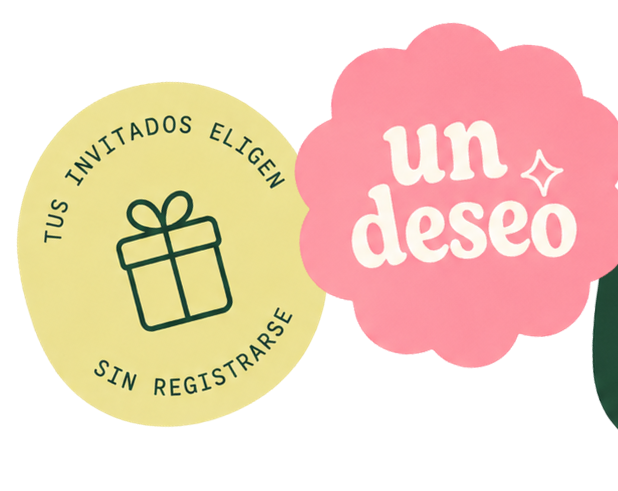
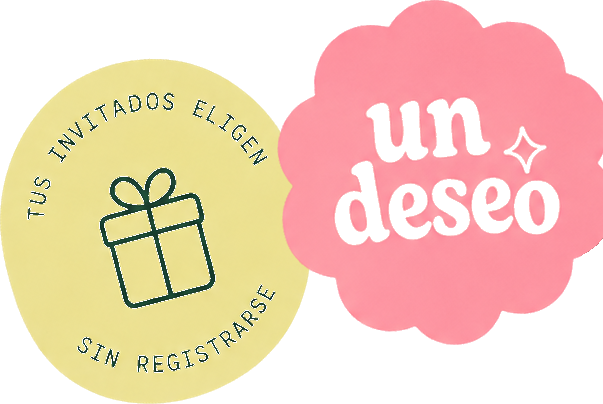
Usar el sticker original de "armá tu lista" y prolijar el recorte
El recorte anterior de invitados/un-deseo dejaba bordes de color de
los stickers vecinos colándose (corte a lo bruto). Se rehace con
una máscara por color en vez de un recorte rectangular, así queda
limpio. El tercer sticker deja de reconstruirse en código (con una
fuente distinta a la pedida) y pasa a ser el archivo real que se
subió, recortado a su forma real sin tocar diseño ni tipografía.

diff --git a/src/app/layout.tsx b/src/app/layout.tsx
@@ -1,5 +1,5 @@
 import type { Metadata } from "next";
-import { Fraunces, Jost, IBM_Plex_Mono, Caveat } from "next/font/google";
+import { Fraunces, Jost, IBM_Plex_Mono } from "next/font/google";
 import { Analytics } from "@vercel/analytics/next";
 import { PostHogProvider } from "@/components/PostHogProvider";
 import "./globals.css";
@@ -20,13 +20,6 @@ const ibmPlexMono = IBM_Plex_Mono({
   variable: "--font-ibm-plex-mono",
   subsets: ["latin"],
   weight: ["500", "600"],
-});
-
-// Provisorio: reemplazar por la fuente "Machiato" cuando se confirme la licencia comercial.
-const caveat = Caveat({
-  variable: "--font-caveat",
-  subsets: ["latin"],
-  weight: ["700"],
 });
 
 export const metadata: Metadata = {
@@ -54,7 +47,7 @@ export default function RootLayout({ children }: LayoutProps<"/">) {
   return (
     <html
       lang="es"
-      className={`${fraunces.variable} ${jost.variable} ${ibmPlexMono.variable} ${caveat.variable} h-full antialiased`}
+      className={`${fraunces.variable} ${jost.variable} ${ibmPlexMono.variable} h-full antialiased`}
     >
       <body className="min-h-full flex flex-col font-body">
         <PostHogProvider>{children}</PostHogProvider>

diff --git a/src/app/login/page.tsx b/src/app/login/page.tsx
@@ -57,17 +57,17 @@ function LoginForm() {
           <Image
             src="/sticker-guests-wish.png"
             alt=""
-            width={618}
-            height={491}
+            width={603}
+            height={404}
             className="h-[150px] md:h-[170px] w-auto"
           />
-          <div
-            className="w-[92px] md:w-[105px] aspect-[290/400] shrink-0 rounded-[48%_52%_45%_55%/58%_42%_58%_42%] bg-forest flex items-center justify-center px-2 rotate-3 shadow-md"
-          >
-            <p className="font-script text-cream text-[1.2rem] md:text-[1.35rem] leading-[1.05] text-center">
-              armá tu lista en un minuto
-            </p>
-          </div>
+          <Image
+            src="/sticker-arma-lista.png"
+            alt=""
+            width={929}
+            height={1066}
+            className="h-[150px] md:h-[170px] w-auto"
+          />
         </div>
         <p className="font-display text-xl font-semibold text-ink">
           Entrá a Un Deseo para crear y guardar tus listas.

diff --git a/src/app/globals.css b/src/app/globals.css
@@ -38,7 +38,6 @@
   --font-display: var(--font-fraunces);
   --font-body: var(--font-jost);
   --font-mono-price: var(--font-ibm-plex-mono);
-  --font-script: var(--font-caveat);
 }
 
 body {
